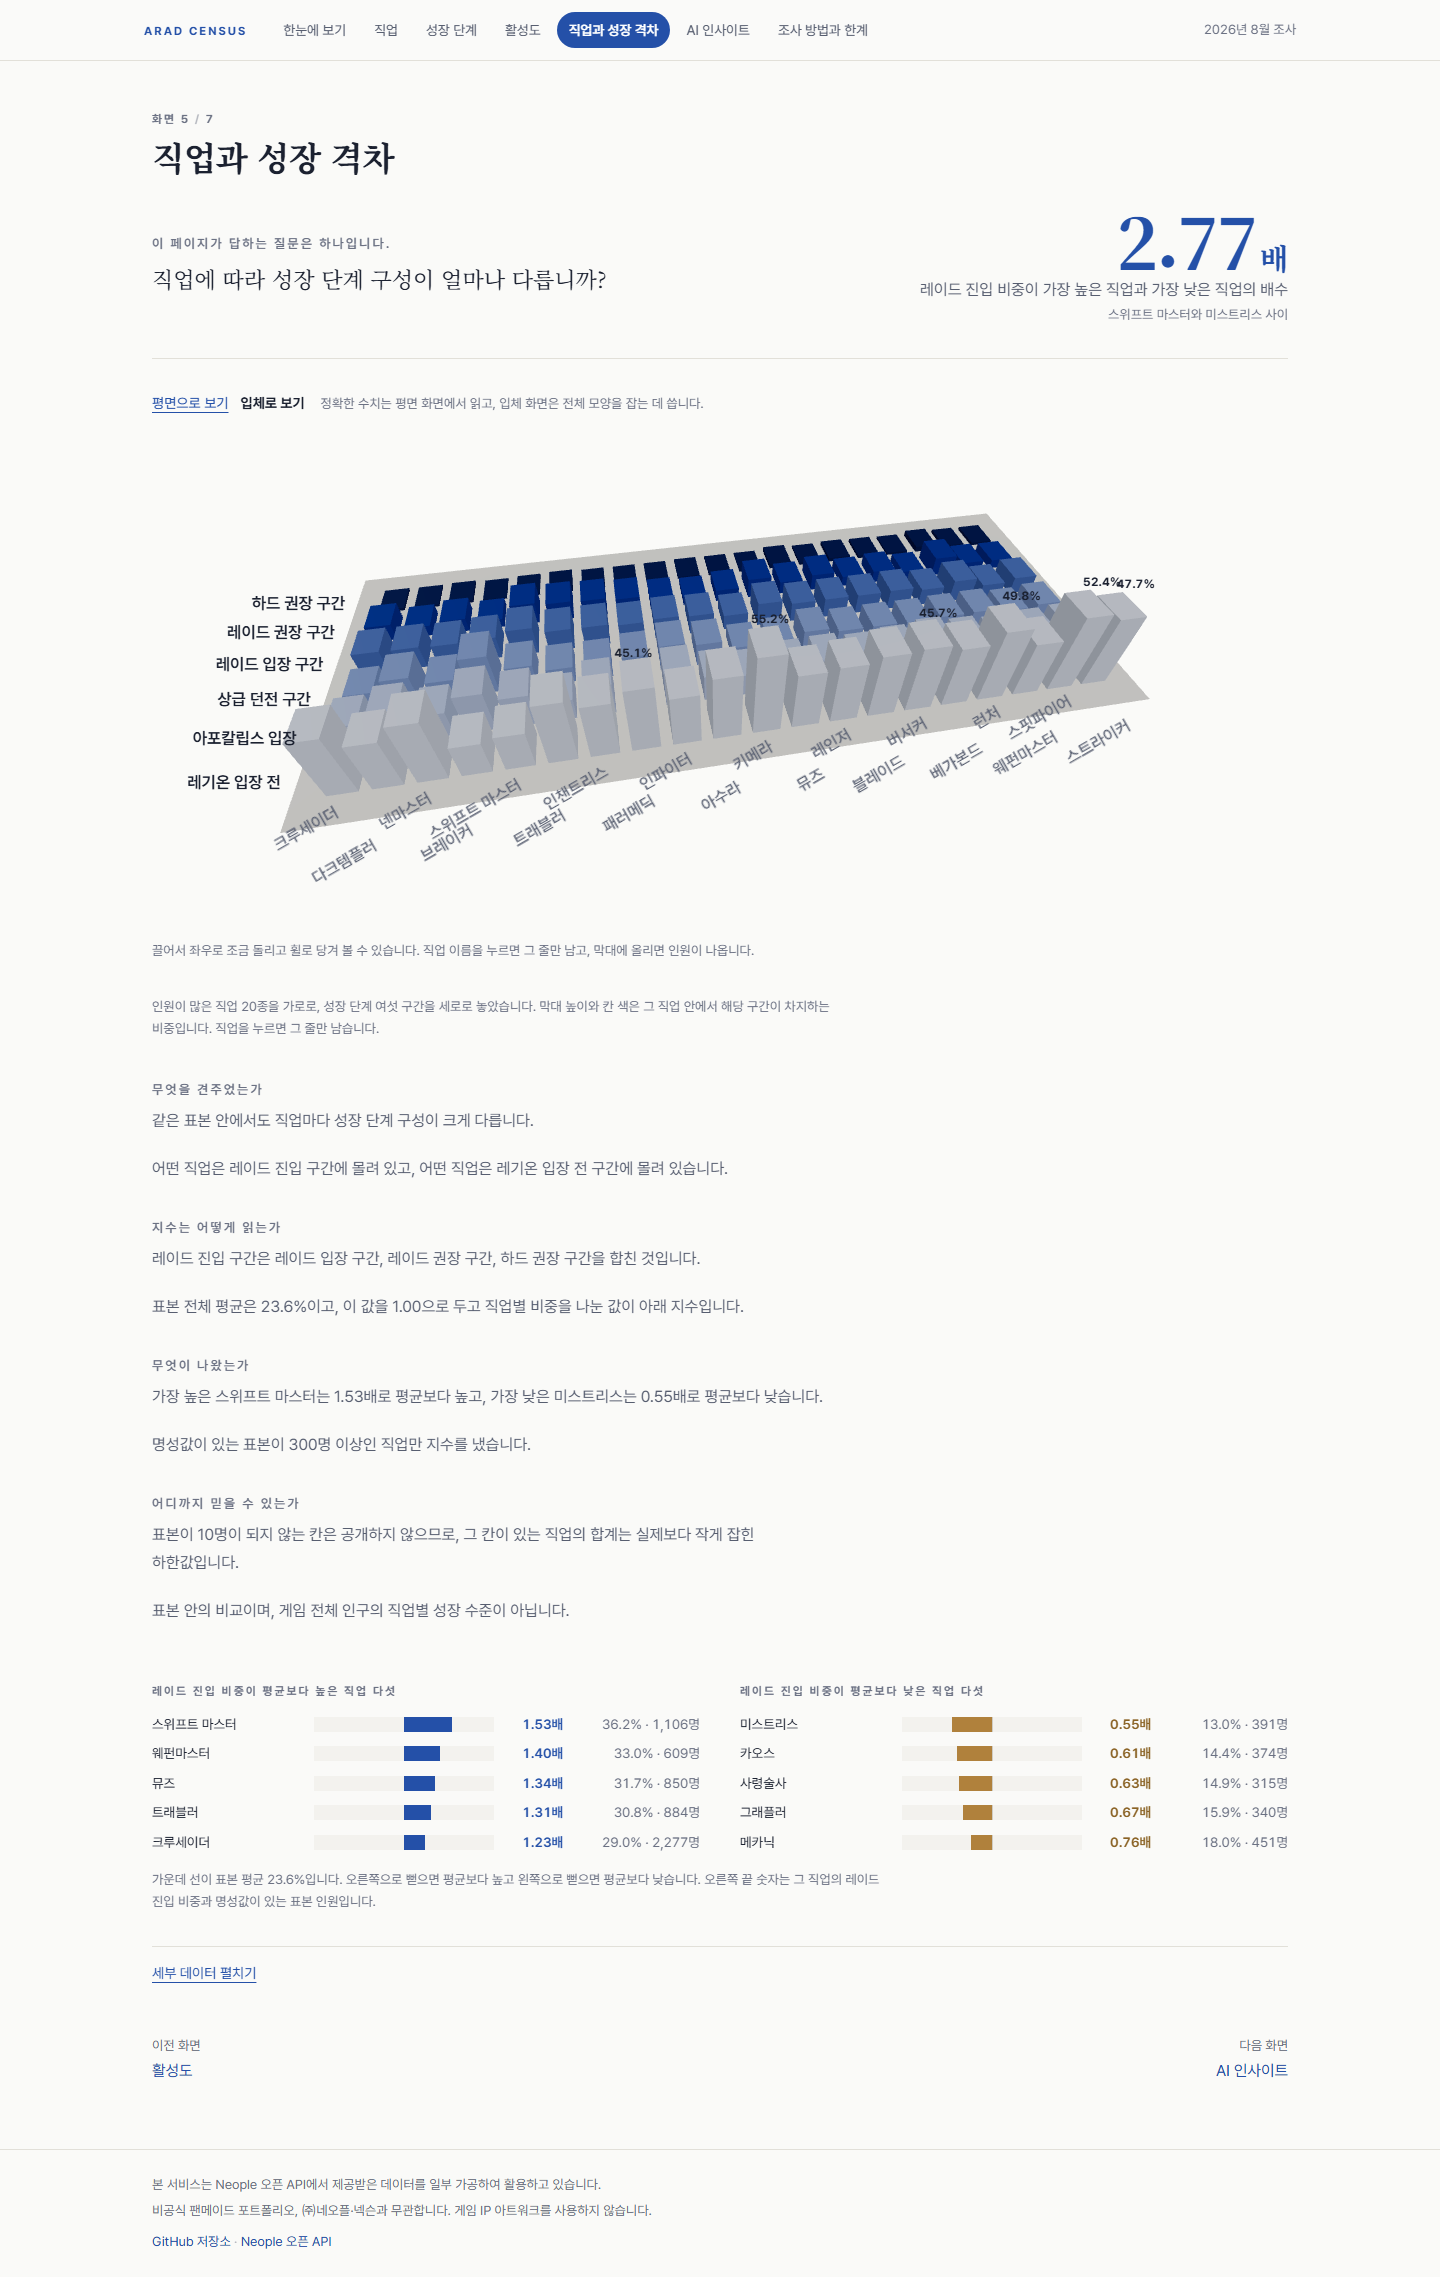
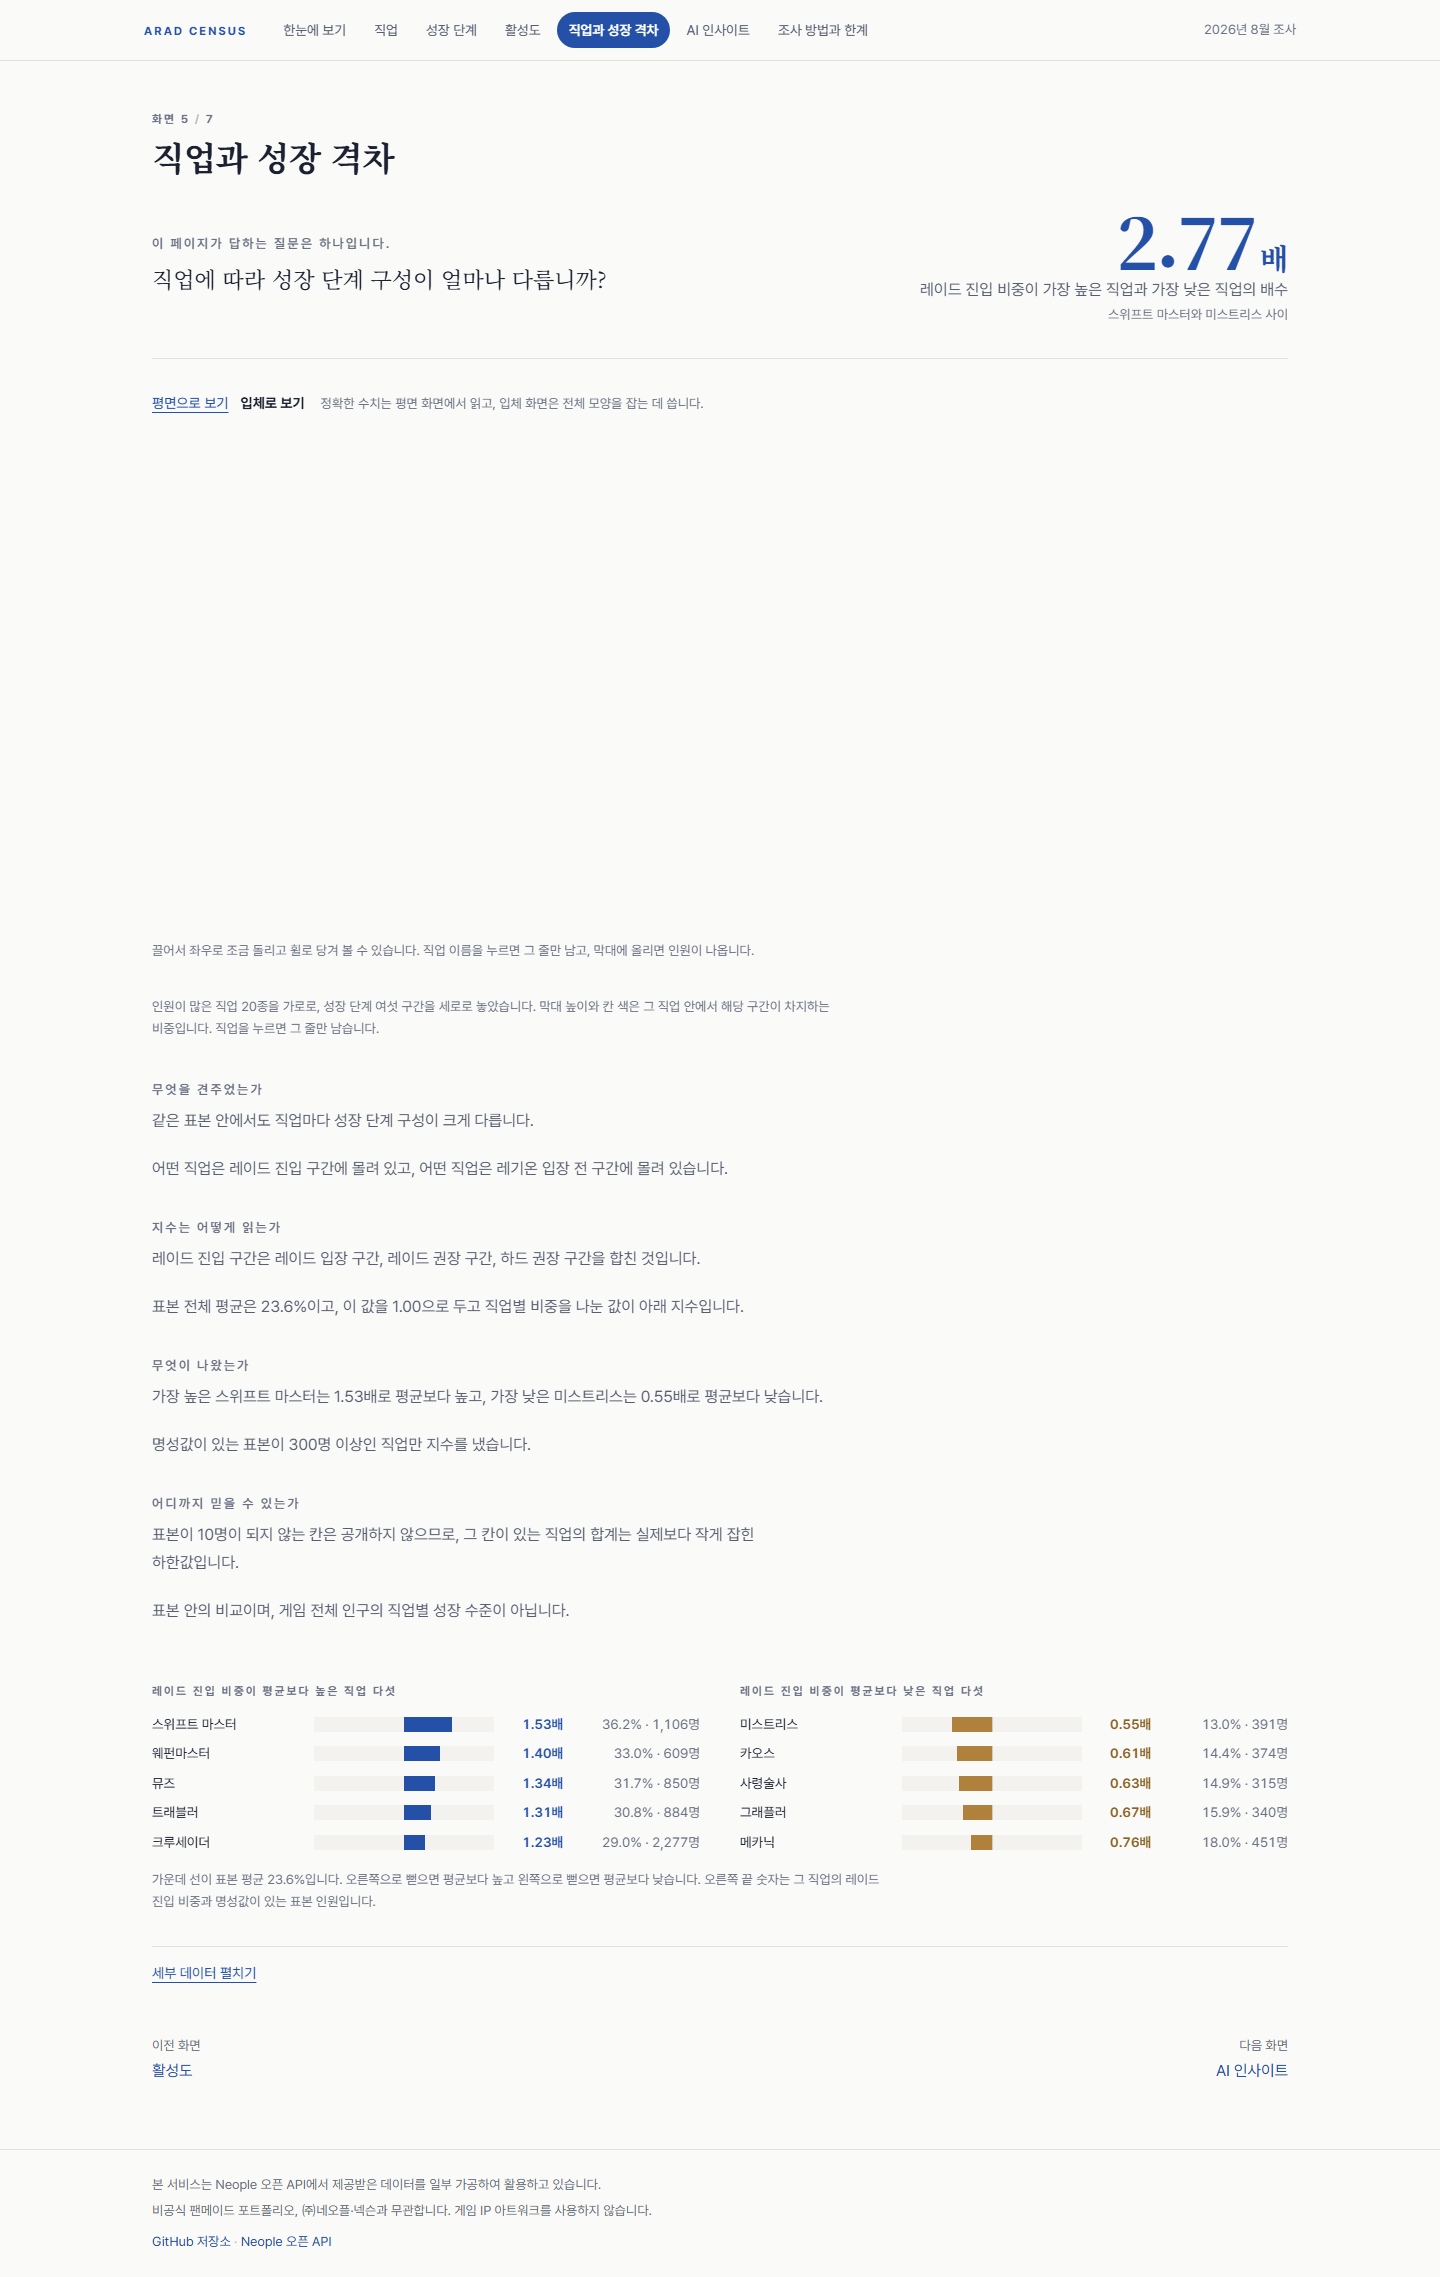
perf: 입체 화면이 계속 그리던 것을 멈춰 메인 스레드를 비움
증상: 화면을 열어 둔 채로 두면 메인 스레드가 계속 잡혀 있어 외부 도구가 로드
완료를 기다리다 시간 초과됐다.

원인: 두 입체 화면의 캔버스가 기본 설정대로 매 프레임 다시 그리고 있었다.
표본 피라미드는 자동 회전 때문에, 지형은 궤도 조작의 감쇠 때문에 멈추지 않았다.
측정값은 한눈에 보기 35.1%, 직업과 성장 격차 56.5%였다.

- 두 캔버스를 필요할 때만 그리도록 바꿨다. 표본 피라미드는 처음 6초만 돌고
  멈추며, 그 뒤에는 마우스를 올리거나 화면이 바뀔 때만 다시 그린다.
- 지형은 궤도 조작 감쇠를 껐다. 끌거나 확대할 때만 그린다.
- 필요할 때만 그리면 캡처 시점에 화면이 비어 나오므로 드로잉 버퍼를 보존한다.
- 쓰지 않던 framer-motion 의존성을 걷어냈다.

측정 (10초 창, 화면 진입 6초 뒤부터)
| 화면 | 이전 | 이후 |
| 한눈에 보기 | 35.1% | 2.2% |
| 직업 | 1.1% | 0.8% |
| 직업과 성장 격차 | 56.5% | 1.0% |
| 조사 방법과 한계 | 1.1% | 0.9% |

load 이벤트는 네 화면 모두 34밀리초에서 43밀리초 사이에 발생하며 미완료 요청은
없다. 측정 스크립트는 report/scripts/perf-probe.mjs 로 남겨 둔다.

검수: 검사 106건 전부 통과, 페이지 콘솔 0건, 캡처 16장 재생성

Changed region(s): [[0.125, 0.2183, 0.8125, 0.4054]]

diff --git a/report/src/components/three/SamplePyramid3D.jsx b/report/src/components/three/SamplePyramid3D.jsx
@@ -1,5 +1,5 @@
-import { useRef, useState } from "react";
-import { Canvas, useFrame } from "@react-three/fiber";
+import { useEffect, useRef, useState } from "react";
+import { Canvas, useFrame, useThree } from "@react-three/fiber";
 import { Html } from "@react-three/drei";
 import { BIN_COLOR, GOLD } from "../../lib/palette.js";
 import { fmtPct, fmtPeople } from "../../lib/format.js";
@@ -9,11 +9,28 @@ import { BinLegend } from "../charts/Legend.jsx";
 const BASE_R = 1.78;
 const TOTAL_H = 3.1;
 const GAP = 2.0; // 두 피라미드 사이 간격
+const INTRO_MS = 6000; // 이만큼만 돌리고 멈춘다 (계속 돌면 화면이 쉬지 않는다)
 
-function Stack({ rows, x, onHover, hovered, paused }) {
+/** 도는 동안에만 프레임을 요청한다. 멈추면 그리기도 멈춘다. */
+function IntroFrames({ active }) {
+  const invalidate = useThree((state) => state.invalidate);
+  useEffect(() => {
+    if (!active) return undefined;
+    let raf = 0;
+    const tick = () => {
+      invalidate();
+      raf = requestAnimationFrame(tick);
+    };
+    raf = requestAnimationFrame(tick);
+    return () => cancelAnimationFrame(raf);
+  }, [active, invalidate]);
+  return null;
+}
+
+function Stack({ rows, x, onHover, hovered, spinning }) {
   const spin = useRef(null);
   useFrame((_, delta) => {
-    if (spin.current && !paused) spin.current.rotation.y += delta * 0.11;
+    if (spin.current && spinning) spin.current.rotation.y += Math.min(delta, 0.05) * 0.11;
   });
   return (
     <group ref={spin} position={[x, -TOTAL_H / 2, 0]} rotation={[0, Math.PI / 4, 0]}>
@@ -60,6 +77,12 @@ function BaseLabel({ x, row }) {
 /** 표본 피라미드 입체 화면. 층 높이가 그 구간의 비중이다. */
 export default function SamplePyramid3D({ full, complete, fullNote, completeNote }) {
   const [hovered, setHovered] = useState(null);
+  const [intro, setIntro] = useState(true);
+  useEffect(() => {
+    const id = setTimeout(() => setIntro(false), INTRO_MS);
+    return () => clearTimeout(id);
+  }, []);
+  const spinning = intro && !hovered;
   const rowsFull = bands(full);
   const rowsComplete = bands(complete);
   const info = hovered
@@ -69,13 +92,14 @@ export default function SamplePyramid3D({ full, complete, fullNote, completeNote
   return (
     <div>
       <div style={{ height: 420, maxWidth: 880, margin: "0 auto", background: "var(--bg-base)" }}>
-        <Canvas camera={{ position: [0, 0.9, 6.1], fov: 38 }} dpr={[1, 1.8]} gl={{ antialias: true }}>
+        <Canvas frameloop="demand" camera={{ position: [0, 0.9, 6.1], fov: 38 }} dpr={[1, 1.8]} gl={{ antialias: true, preserveDrawingBuffer: true }}>
           <color attach="background" args={["#FAFAF8"]} />
           <ambientLight intensity={0.76} />
           <directionalLight position={[4, 7, 5]} intensity={1.1} />
           <directionalLight position={[-5, 3, -4]} intensity={0.32} />
-          <Stack rows={rowsFull} x={-GAP} onHover={setHovered} hovered={hovered} paused={Boolean(hovered)} />
-          <Stack rows={rowsComplete} x={GAP} onHover={setHovered} hovered={hovered} paused={Boolean(hovered)} />
+          <IntroFrames active={spinning} />
+          <Stack rows={rowsFull} x={-GAP} onHover={setHovered} hovered={hovered} spinning={spinning} />
+          <Stack rows={rowsComplete} x={GAP} onHover={setHovered} hovered={hovered} spinning={spinning} />
           <BaseLabel x={-GAP} row={rowsFull[0]} />
           <BaseLabel x={GAP} row={rowsComplete[0]} />
         </Canvas>
@@ -94,7 +118,7 @@ export default function SamplePyramid3D({ full, complete, fullNote, completeNote
             <span className="num">완전 검색 표본 {fmtPct(info.complete.pct)} {fmtPeople(info.complete.count)}</span>
           </>
         ) : (
-          <span className="t-small">맨 아래층 비중만 늘 보입니다. 다른 층은 마우스를 올리면 회전이 멈추고 수치가 나옵니다.</span>
+          <span className="t-small">처음 몇 초만 천천히 돌고 멈춥니다. 맨 아래층 비중은 늘 보이고, 다른 층은 마우스를 올리면 수치가 나옵니다.</span>
         )}
       </p>
     </div>

diff --git a/report/src/components/three/JobTerrain3D.jsx b/report/src/components/three/JobTerrain3D.jsx
@@ -47,7 +47,7 @@ export default function JobTerrain3D({ rows, cellCount, cellShare, selected, set
   return (
     <div>
       <div style={{ height: 476, maxWidth: 1160, margin: "0 auto", background: "var(--bg-base)" }}>
-        <Canvas camera={{ position: [0, 5.3, 6.2], fov: 42 }} dpr={[1, 1.8]} gl={{ antialias: true }}>
+        <Canvas frameloop="demand" camera={{ position: [0, 5.3, 6.2], fov: 42 }} dpr={[1, 1.8]} gl={{ antialias: true, preserveDrawingBuffer: true }}>
           <color attach="background" args={["#FAFAF8"]} />
           <ambientLight intensity={0.78} />
           <directionalLight position={[5, 9, 7]} intensity={1.05} />
@@ -61,7 +61,7 @@ export default function JobTerrain3D({ rows, cellCount, cellShare, selected, set
             maxPolarAngle={1.12}
             minAzimuthAngle={-0.42}
             maxAzimuthAngle={0.42}
-            enableDamping
+            enableDamping={false}
           />
           <group position={[1.15, -0.6, 0]}>
             <mesh rotation={[-Math.PI / 2, 0, 0]} position={[0, -0.01, 0]}>

diff --git a/report/content/copy.md b/report/content/copy.md
@@ -28,7 +28,7 @@
 - 아래층이 레기온 입장 전, 위로 갈수록 높은 구간입니다.
 - 왼쪽 전체 표본 명성값이 있는 30,082명 기준
 - 오른쪽 완전 검색 표본 명성값이 있는 4,087명 기준
-- 맨 아래층 비중만 늘 보입니다. 다른 층은 마우스를 올리면 회전이 멈추고 수치가 나옵니다.
+- 처음 몇 초만 천천히 돌고 멈춥니다. 맨 아래층 비중은 늘 보이고, 다른 층은 마우스를 올리면 수치가 나옵니다.
 - 왼쪽은 전체 표본, 오른쪽은 완전 검색 표본입니다. 두 피라미드의 밑동을 견주어 보십시오. 레기온 입장 전 구간이 전체 표본에서는 44.8%, 완전 검색 표본에서는 79.5%입니다.
 - 무엇을 보았는가
 - 던전앤파이터 캐릭터 표본을 서버 8곳에서 뽑아 직업과 성장 단계, 접속 기록을 살펴본 조사입니다.
